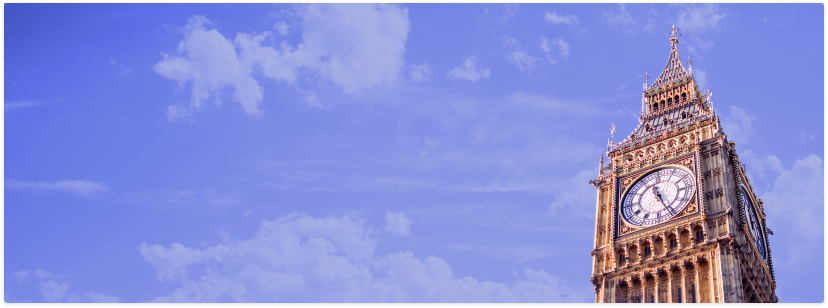
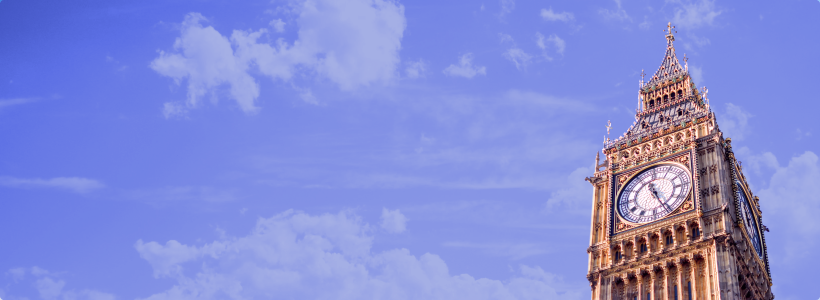
Построил сетку на технологии Grid

Changed region(s): [[0.0, 0.0, 1.0, 1.0], [0.2744, 0.09, 0.3354, 0.12], [0.1829, 0.78, 0.2439, 0.81]]

diff --git a/css/style.css b/css/style.css
@@ -1,0 +1,137 @@
+body {
+    padding: 0;
+    margin: 0;
+
+    font-family: "Roboto", sans-serif;
+    font-weight: 300;
+    font-size: 14px;
+    line-height: 20px;
+    color: #3C425F;
+    background-color: #F1F3FE;
+}
+
+.container {
+    width: 1440px;
+    margin: 0 auto;
+}
+
+.visually-hidden {
+    position: absolute;
+    clip: rect(1px, 1px, 1px, 1px);
+    padding: 0;
+    border: 0;
+    width: 1px;
+    height: 1px;
+    overflow: hidden;
+}
+
+.button {
+    padding: 10px 20px;
+    border-radius: 5px;
+
+    font-weight: 500;
+    font-size: 18px;
+    line-height: 22px;
+    text-align: center;
+}
+
+.button-orange {
+    background: #FF8F0B;
+    color: white;
+}
+
+.page {
+    display: grid;
+    grid-template-columns: 280px 1fr;
+    grid-template-rows: 80px 1fr 70px;
+    grid-template-areas:
+        "nav header"
+        "nav main"
+        "footer footer";
+
+    min-height: 100vh;
+}
+
+.page-nav {
+    grid-area: nav;
+
+    display: grid;
+    grid-template-rows: 80px 1fr auto;
+    background: white;
+}
+
+.page-header {
+    grid-area: header;
+
+    display: grid;
+    grid-template-columns: 1fr auto 80px;
+    background: white;
+}
+
+.page-main {
+    grid-area: main;
+
+    display: grid;
+    grid-template-columns: 3fr 1fr;
+    grid-template-rows: 300px auto 1fr;
+    background: #F1F3FE;
+}
+
+.slider {
+    grid-area: 1/1/2/2;
+
+    position: relative;
+    width: 820px;
+    height: 300px;
+    overflow: hidden;
+}
+
+.slider-title {
+    position: relative;
+}
+
+.slider-text {
+    position: relative;
+}
+
+.slider-link {
+    position: relative;
+}
+
+.button-prev {
+    position: relative;
+}
+
+.button-next {
+    position: relative;
+}
+
+.slider-img {
+    position: absolute;
+    left: 0;
+    top: 0;
+}
+
+.offers {
+    grid-area: 2/1/3/2;
+}
+
+.offers-list {
+    display: grid;
+    grid-template-columns: repeat(3, 1fr);
+}
+
+.video {
+    grid-area: 3/1/4/2;
+
+    display: grid;
+    grid-template-columns: 2fr 1fr;
+}
+
+.page-footer {
+    grid-area: footer;
+
+    display: grid;
+    grid-template-columns: 280px 1fr 290px;
+    background: #3C425F;
+}

diff --git a/index.html b/index.html
@@ -46,7 +46,7 @@
 
         <main class="page-main">
             <section class="slider">
-                <img src="img/slider-photo.png" width="828" height="308" alt="Биг-Бэн" class="slider-img">
+                <img src="img/slider-photo.png" width="820" height="300" alt="Биг-Бэн" class="slider-img">
                 <p class="slider-title">«Бифитер», «Кокни», «Даблдекер»...</p>
                 <p class="slider-text">Пройдите тест и узнайте насколько хорошо вы знакомы с жизнью в Лондоне</p>
                 <a href="#" class="button button-orange slider-link">Пройти тест ➞</a>
